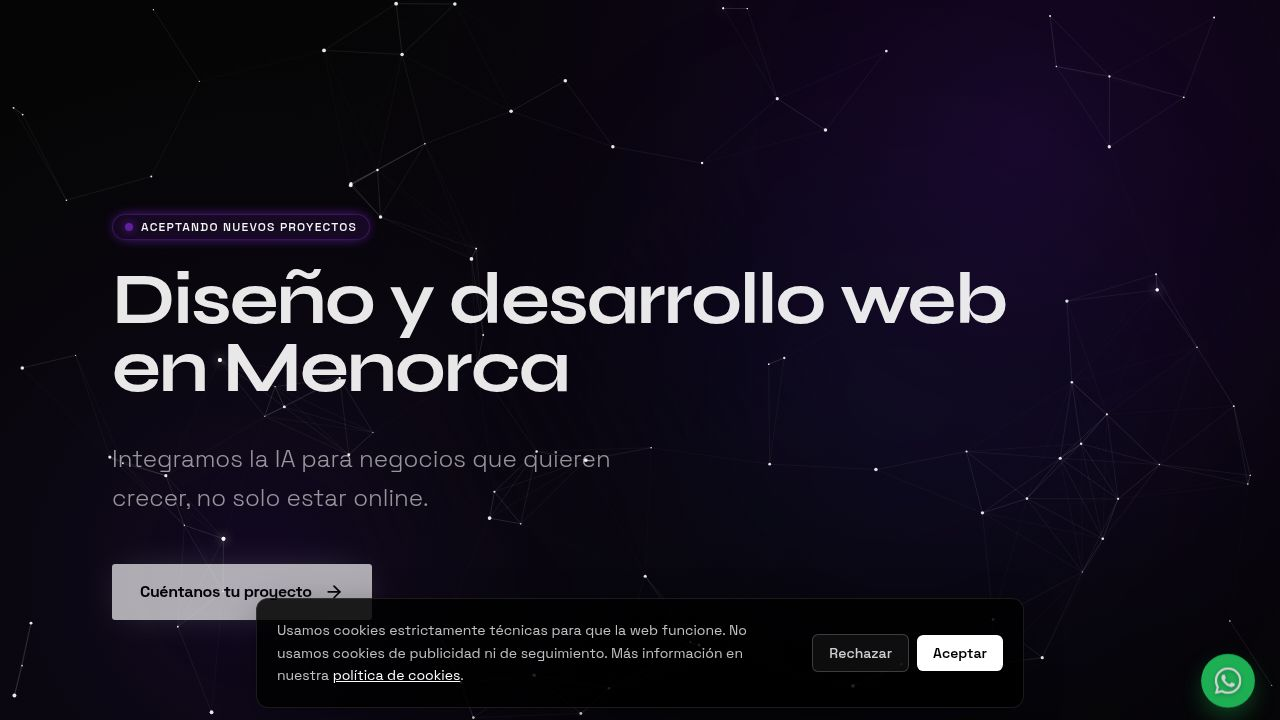
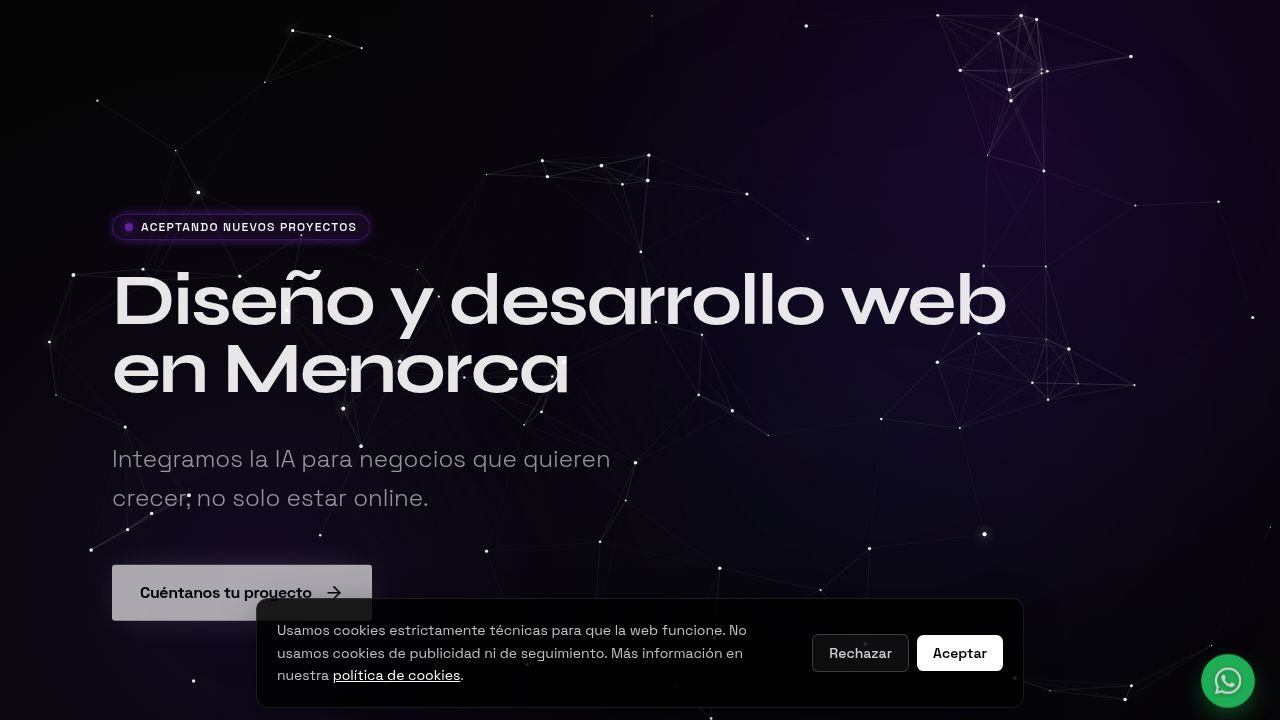
Improve website navigation and add newsletter signup incentive
Adjust animations for immediate display, simplify contact form interaction, and enhance newsletter signup with a free guide.

Replit-Commit-Author: Agent
Replit-Commit-Session-Id: 259c44ee-bbfb-49c0-a489-83c4e5054eb6
Replit-Commit-Checkpoint-Type: full_checkpoint
Replit-Commit-Event-Id: 385e6dc8-5c4a-4a63-8ba6-0ee1520fecf0
Replit-Commit-Screenshot-Url: https://storage.googleapis.com/screenshot-production-us-central1/a56d19fc-b351-4805-9af4-5c820c16ad90/259c44ee-bbfb-49c0-a489-83c4e5054eb6/ih4w9hH
Replit-Helium-Checkpoint-Created: true

diff --git a/client/src/components/sections/Contact.tsx b/client/src/components/sections/Contact.tsx
@@ -1,13 +1,11 @@
 import { FadeIn } from "../layout/FadeIn";
-import { ArrowRight, Mail, Instagram, Copy, Check } from "lucide-react";
+import { Instagram, Copy, Check } from "lucide-react";
 import { ContactForm } from "./ContactForm";
 import { useState } from "react";
-import { motion, AnimatePresence } from "framer-motion";
 import { WhatsAppButton } from "../layout/WhatsAppButton";
 import { WHATSAPP_NUMBER_DISPLAY, WHATSAPP_NUMBER_RAW } from "@/lib/whatsapp";
 
 export function Contact() {
-  const [showForm, setShowForm] = useState(false);
   const [copied, setCopied] = useState(false);
 
   const copyNumber = async () => {
@@ -39,126 +37,95 @@ export function Contact() {
       </div>
 
       <div className="relative z-10 w-full max-w-6xl mx-auto px-6 md:px-12">
-        <div className="max-w-3xl mx-auto text-center">
-          <AnimatePresence mode="wait">
-            {!showForm ? (
-              <motion.div
-                key="intro"
-                initial={{ opacity: 0, y: 20 }}
-                animate={{ opacity: 1, y: 0 }}
-                exit={{ opacity: 0, y: -20 }}
-                transition={{ duration: 0.5 }}
+        <div className="max-w-3xl mx-auto">
+          <div className="text-center mb-10">
+            <FadeIn>
+              <span className="inline-flex items-center gap-2 px-3 py-1 mb-8 rounded-full bg-[hsl(270,100%,60%)]/10 border border-[hsl(270,100%,60%)]/30 text-[hsl(270,100%,80%)] text-xs tracking-widest uppercase shadow-[0_0_20px_-5px_hsl(270,100%,60%)]">
+                <span
+                  className="w-2 h-2 rounded-full bg-[hsl(270,100%,60%)] animate-pulse shadow-[0_0_10px_hsl(270,100%,60%)]"
+                  aria-hidden="true"
+                />
+                Aceptando proyectos
+              </span>
+            </FadeIn>
+
+            <FadeIn delay={0.1}>
+              <h2
+                id="contact-title"
+                className="text-4xl md:text-6xl lg:text-7xl font-display font-bold mb-6 tracking-tight text-white leading-[1.05]"
               >
-                <FadeIn>
-                  <span className="inline-flex items-center gap-2 px-3 py-1 mb-8 rounded-full bg-[hsl(270,100%,60%)]/10 border border-[hsl(270,100%,60%)]/30 text-[hsl(270,100%,80%)] text-xs tracking-widest uppercase shadow-[0_0_20px_-5px_hsl(270,100%,60%)]">
-                    <span
-                      className="w-2 h-2 rounded-full bg-[hsl(270,100%,60%)] animate-pulse shadow-[0_0_10px_hsl(270,100%,60%)]"
-                      aria-hidden="true"
-                    />
-                    Aceptando proyectos
-                  </span>
-                </FadeIn>
+                ¿Tienes un <strong>proyecto</strong>? <br />
+                <span className="text-white/50">Cuéntanoslo.</span>
+              </h2>
+            </FadeIn>
 
-                <FadeIn delay={0.1}>
-                  <h2
-                    id="contact-title"
-                    className="text-4xl md:text-6xl lg:text-7xl font-display font-bold mb-6 tracking-tight text-white leading-[1.05]"
-                  >
-                    ¿Tienes un <strong>proyecto</strong>? <br />
-                    <span className="text-white/50">Cuéntanoslo.</span>
-                  </h2>
-                </FadeIn>
+            <FadeIn delay={0.15}>
+              <p className="text-base md:text-lg text-white/65 mb-4 max-w-2xl mx-auto font-light leading-relaxed">
+                Respondemos rápido y con honestidad. Si encajamos, te lo decimos.
+                Si no, también.
+              </p>
+            </FadeIn>
+          </div>
 
-                <FadeIn delay={0.2}>
-                  <p className="text-base md:text-lg text-white/65 mb-10 max-w-2xl mx-auto font-light leading-relaxed">
-                    Respondemos rápido y con honestidad. Si encajamos, te lo decimos.
-                    Si no, también.
-                  </p>
-                </FadeIn>
-
-                <FadeIn delay={0.3}>
-                  <div className="flex flex-col sm:flex-row items-stretch sm:items-center justify-center gap-3 mb-8">
-                    <button
-                      type="button"
-                      onClick={() => setShowForm(true)}
-                      data-testid="button-open-contact-form"
-                      className="group inline-flex items-center justify-center gap-3 px-7 py-4 bg-white text-black text-base font-bold tracking-tight rounded-sm hover:scale-[1.02] transition-all duration-300 shadow-[0_0_40px_-10px_rgba(255,255,255,0.3)] hover:shadow-[0_0_60px_-10px_hsl(270,100%,60%,0.6)]"
-                    >
-                      <Mail className="w-5 h-5" />
-                      Rellenar formulario
-                      <ArrowRight className="w-5 h-5 group-hover:translate-x-1 transition-transform" />
-                    </button>
-                    <WhatsAppButton
-                      variant="solid"
-                      label="WhatsApp"
-                      showNumber
-                      testId="link-contact-whatsapp"
-                      className="px-7 py-4 text-base"
-                    />
-                  </div>
-                </FadeIn>
-
-                <FadeIn delay={0.4}>
-                  <div className="flex flex-col sm:flex-row items-center justify-center gap-2 sm:gap-4 text-sm text-white/55">
-                    <button
-                      type="button"
-                      onClick={copyNumber}
-                      data-testid="button-copy-whatsapp"
-                      aria-label={`Copiar número de WhatsApp ${WHATSAPP_NUMBER_DISPLAY}`}
-                      className="inline-flex items-center gap-2 px-3 py-2 rounded-full border border-white/10 hover:border-white/30 hover:text-white transition-colors font-mono"
-                    >
-                      {copied ? (
-                        <>
-                          <Check className="w-3.5 h-3.5 text-[#25D366]" />
-                          Copiado
-                        </>
-                      ) : (
-                        <>
-                          <Copy className="w-3.5 h-3.5" />
-                          {WHATSAPP_NUMBER_DISPLAY}
-                        </>
-                      )}
-                    </button>
-                    <a
-                      href={`tel:+${WHATSAPP_NUMBER_RAW}`}
-                      className="hover:text-white transition-colors"
-                      data-testid="link-tel"
-                    >
-                      o llámanos
-                    </a>
-                    <a
-                      href="https://www.instagram.com/proyecto.ix/"
-                      target="_blank"
-                      rel="noopener noreferrer"
-                      data-testid="link-instagram"
-                      className="inline-flex items-center gap-1.5 hover:text-white transition-colors"
-                    >
-                      <Instagram className="w-4 h-4" />
-                      @proyecto.ix
-                    </a>
-                  </div>
-                </FadeIn>
-              </motion.div>
-            ) : (
-              <motion.div
-                key="form"
-                initial={{ opacity: 0, scale: 0.95 }}
-                animate={{ opacity: 1, scale: 1 }}
-                transition={{ duration: 0.5 }}
-                className="w-full"
-              >
+          <FadeIn delay={0.2}>
+            <div className="grid grid-cols-1 lg:grid-cols-[1fr,auto] gap-8 lg:gap-10 items-start">
+              <div className="w-full">
                 <ContactForm />
+              </div>
+
+              <div className="flex flex-col items-center lg:items-start gap-4 lg:pt-2">
+                <p className="text-white/40 text-xs uppercase tracking-[0.2em] font-semibold">O si lo prefieres</p>
+
+                <WhatsAppButton
+                  variant="solid"
+                  label="WhatsApp"
+                  showNumber
+                  testId="link-contact-whatsapp"
+                  className="px-7 py-4 text-base w-full sm:w-auto"
+                />
+
                 <button
                   type="button"
-                  onClick={() => setShowForm(false)}
-                  data-testid="button-cancel-form"
-                  className="mt-8 text-white/30 text-sm hover:text-white transition-colors"
+                  onClick={copyNumber}
+                  data-testid="button-copy-whatsapp"
+                  aria-label={`Copiar número de WhatsApp ${WHATSAPP_NUMBER_DISPLAY}`}
+                  className="inline-flex items-center gap-2 px-3 py-2 rounded-full border border-white/10 hover:border-white/30 hover:text-white transition-colors font-mono text-sm text-white/55"
                 >
-                  Cancelar
+                  {copied ? (
+                    <>
+                      <Check className="w-3.5 h-3.5 text-[#25D366]" />
+                      Copiado
+                    </>
+                  ) : (
+                    <>
+                      <Copy className="w-3.5 h-3.5" />
+                      {WHATSAPP_NUMBER_DISPLAY}
+                    </>
+                  )}
                 </button>
-              </motion.div>
-            )}
-          </AnimatePresence>
+
+                <div className="flex items-center gap-4 text-sm text-white/55">
+                  <a
+                    href={`tel:+${WHATSAPP_NUMBER_RAW}`}
+                    className="hover:text-white transition-colors"
+                    data-testid="link-tel"
+                  >
+                    Llámanos
+                  </a>
+                  <a
+                    href="https://www.instagram.com/proyecto.ix/"
+                    target="_blank"
+                    rel="noopener noreferrer"
+                    data-testid="link-instagram"
+                    className="inline-flex items-center gap-1.5 hover:text-white transition-colors"
+                  >
+                    <Instagram className="w-4 h-4" />
+                    @proyecto.ix
+                  </a>
+                </div>
+              </div>
+            </div>
+          </FadeIn>
         </div>
       </div>
     </section>

diff --git a/client/src/pages/EmailDiario.tsx b/client/src/pages/EmailDiario.tsx
@@ -132,6 +132,18 @@ export default function EmailDiario() {
                 </p>
               </div>
 
+              <div className="w-full rounded-2xl border border-[hsl(270,100%,60%)]/30 bg-[hsl(270,100%,60%)]/10 px-5 py-4 shadow-[0_0_40px_-18px_hsl(270,100%,60%)]">
+                <p className="text-white text-sm sm:text-base font-bold uppercase tracking-wide">
+                  Al suscribirte, recibes gratis:
+                </p>
+                <p className="mt-1.5 text-[hsl(270,100%,75%)] text-sm sm:text-base leading-relaxed font-semibold">
+                  «Los 5 errores que cometen el 90% de las webs (y cómo solucionarlos)»
+                </p>
+                <p className="mt-1 text-white/50 text-xs sm:text-sm">
+                  Una guía directa que puedes aplicar hoy mismo.
+                </p>
+              </div>
+
               <ul className="space-y-3 text-white/75 text-sm sm:text-base leading-relaxed">
                 <li className="flex gap-3">
                   <span className="text-[hsl(270,100%,70%)] font-bold mt-0.5">→</span>

diff --git a/client/src/components/layout/FadeIn.tsx b/client/src/components/layout/FadeIn.tsx
@@ -6,9 +6,10 @@ interface FadeInProps {
   delay?: number;
   className?: string;
   direction?: "up" | "down" | "left" | "right" | "none";
+  immediate?: boolean;
 }
 
-export function FadeIn({ children, delay = 0, className = "", direction = "up" }: FadeInProps) {
+export function FadeIn({ children, delay = 0, className = "", direction = "up", immediate = false }: FadeInProps) {
   const directionOffset = {
     up: { y: 40, x: 0 },
     down: { y: -40, x: 0 },
@@ -20,8 +21,10 @@ export function FadeIn({ children, delay = 0, className = "", direction = "up" }
   return (
     <motion.div
       initial={{ opacity: 0, ...directionOffset[direction] }}
-      whileInView={{ opacity: 1, x: 0, y: 0 }}
-      viewport={{ once: true, margin: "-100px" }}
+      {...(immediate
+        ? { animate: { opacity: 1, x: 0, y: 0 } }
+        : { whileInView: { opacity: 1, x: 0, y: 0 }, viewport: { once: true, margin: "-50px" } }
+      )}
       transition={{ duration: 0.7, delay, ease: [0.21, 0.47, 0.32, 0.98] }}
       className={className}
     >

diff --git a/client/src/components/sections/Hero.tsx b/client/src/components/sections/Hero.tsx
@@ -14,14 +14,14 @@ export function Hero() {
 
       <div className="relative z-10 w-full max-w-6xl mx-auto px-6 md:px-12">
         <div className="max-w-4xl">
-          <FadeIn direction="up" delay={0.2}>
+          <FadeIn direction="up" delay={0.2} immediate>
             <span className="inline-flex items-center gap-2 px-3 py-1 mb-6 text-xs font-medium tracking-widest uppercase border border-[hsl(270,100%,60%)]/30 rounded-full bg-[hsl(270,100%,60%)]/10 text-white backdrop-blur-sm shadow-[0_0_15px_-5px_hsl(270,100%,60%)]">
               <span className="w-2 h-2 rounded-full bg-[hsl(270,100%,60%)] animate-pulse shadow-[0_0_10px_hsl(270,100%,60%)]" />
               Aceptando nuevos proyectos
             </span>
           </FadeIn>
 
-          <FadeIn direction="up" delay={0.3}>
+          <FadeIn direction="up" delay={0.3} immediate>
             <h1
               id="hero-title"
               className="text-5xl md:text-6xl lg:text-7xl font-display font-bold leading-[0.95] tracking-tight mb-8 text-white"
@@ -30,14 +30,14 @@ export function Hero() {
             </h1>
           </FadeIn>
 
-          <FadeIn direction="up" delay={0.4}>
+          <FadeIn direction="up" delay={0.4} immediate>
             <p className="text-xl md:text-2xl text-white/70 max-w-xl font-light leading-relaxed mb-10">
               Integramos la IA para negocios que quieren crecer,
               no solo estar online.
             </p>
           </FadeIn>
 
-          <FadeIn direction="up" delay={0.5}>
+          <FadeIn direction="up" delay={0.5} immediate>
             <a
               href="#contact"
               data-testid="link-hero-cta"